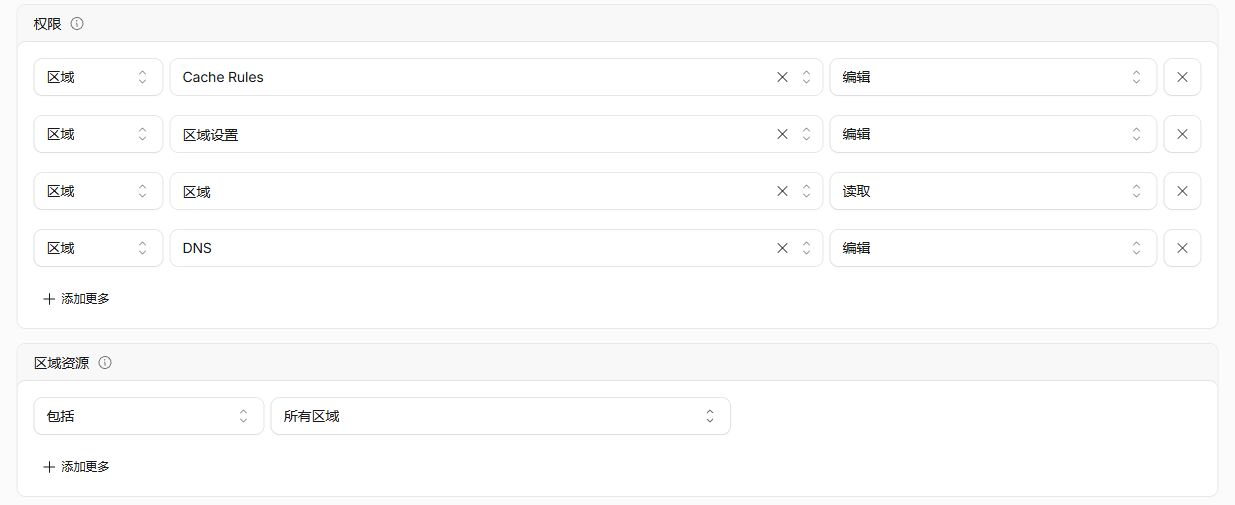
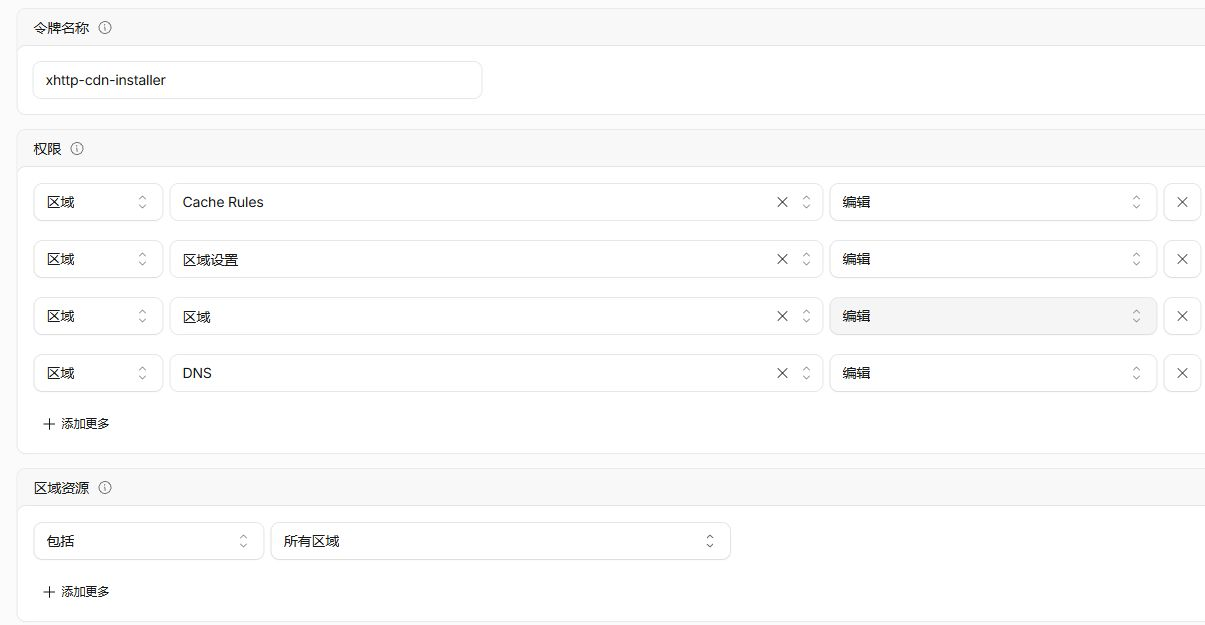
Show Zone Edit in the complete setup guide and screenshots [skip ci]

diff --git a/docs/cloudflare-setup.md b/docs/cloudflare-setup.md
@@ -20,25 +20,25 @@
 
 ## 3. 配置权限和资源范围
 
-名称可填写 `xhttp-cdn-installer`。通过“添加更多”配置四行，顺序不限：
+本教程演示**完整自动安装，包括自动添加尚未接入 CF 的域名**。名称可填写 `xhttp-cdn-installer`。通过“添加更多”配置四行，顺序不限：
 
 | 资源 | 权限 | 权限级别 |
 |---|---|---|
-| 区域（Zone） | 区域（Zone） | 读取（Read） |
+| 区域（Zone） | 区域（Zone） | 编辑（Edit） |
 | 区域（Zone） | DNS | 编辑（Edit） |
 | 区域（Zone） | 区域设置（Zone Settings） | 编辑（Edit） |
 | 区域（Zone） | Cache Rules | 编辑（Edit） |
 
-“区域资源”有两种选择：
+“区域资源”根据是否需要创建新区域选择：
 
-- **推荐：包括 → 特定区域 → 要部署的根域名**，只授权该域名。
-- **需要跨域名复用时：包括 → 所有区域**。下图演示此选项，Token 可以操作其授权范围内所有区域的 DNS、区域设置和缓存规则，并不等于拥有所有 Cloudflare 产品权限。
+- **需要脚本添加新域名或跨域名复用：包括 → 所有区域**。下图演示此选项；资源范围必须覆盖目标账户的新区域，不能只授权一个已有区域。Token 可以管理授权范围内的区域、DNS、区域设置和缓存规则，并不等于拥有所有 Cloudflare 产品权限。
+- **域名已加入 CF，只部署一个域名：包括 → 特定区域 → 要部署的根域名**。此时第一行可缩小为“区域 → 区域 → 读取”，其余三行仍为编辑；这组较小权限不用于自动添加新域名。
 
-![四项区域权限和所有区域范围示例](cloudflare-token-permissions.jpg)
+![完整自动安装：四项编辑权限和所有区域范围](cloudflare-token-permissions.jpg)
 
 有效期和客户端 IP 过滤按实际使用需要设置。下方摘要演示“无过期时间、不限制来源 IP”，不是强制要求。若限制来源 IP，要填写调用 API 的 VPS 出口地址；若 Token 过期或被撤销，使用它的证书自动续期也会失败。
 
-上面四项权限适用于**域名已经添加到 Cloudflare**的情况。若需要脚本自动创建尚未添加的域名区域，还需 Zone / Edit 以及覆盖目标账户中新区域的资源范围；Account ID 本身不会增加权限。更简单的做法是先在 CF 手动添加域名，再使用上面的四项权限。
+仅有“区域 → 区域 → 读取”不能满足本教程的自动添加区域流程。Account ID 本身不会增加权限；若账户策略不允许创建区域，可先在 CF 手动添加域名，再使用上述单域名较小权限方案。
 
 ## 4. 核对摘要，创建并保存 Token
 
